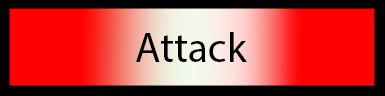
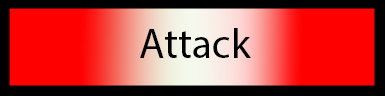
fix button pic

Changed region(s): [[0.3429, 0.2812, 0.6545, 0.6562]]

diff --git a/src/GameLayer.js b/src/GameLayer.js
@@ -146,7 +146,7 @@ var GameLayer = cc.LayerColor.extend({
                 console.log("2");
             }, this);
         this.SPButton = new cc.Menu (this.SPAttack);
-        this.SPButton.setPosition( new cc.Point (600, 51.5) );
+        this.SPButton.setPosition( new cc.Point (595, 51.5) );
         this.addChild(this.SPButton);
     },
     tapRandom: function() {
